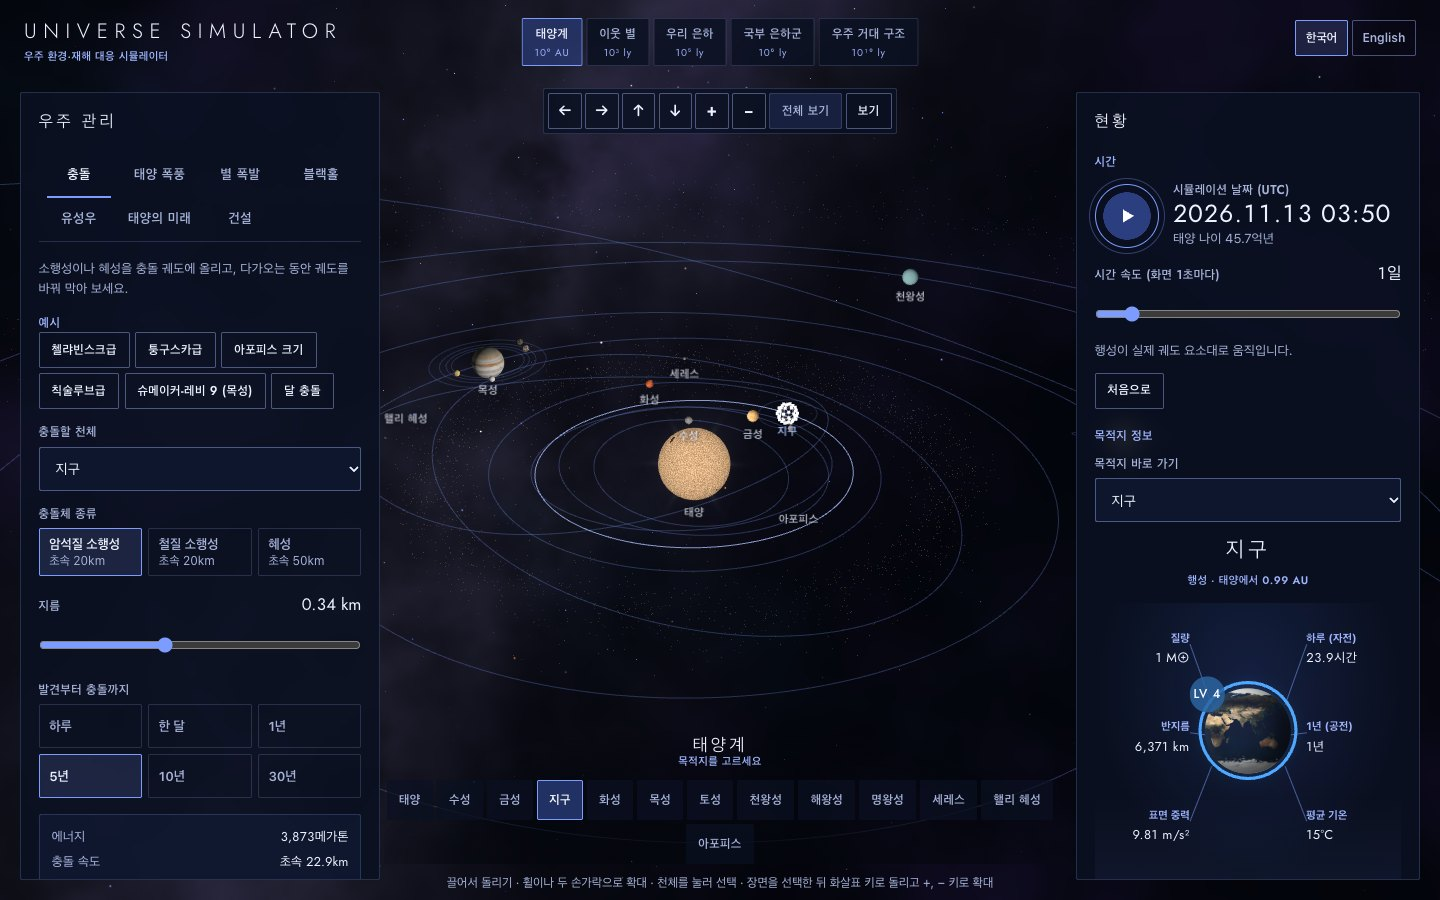
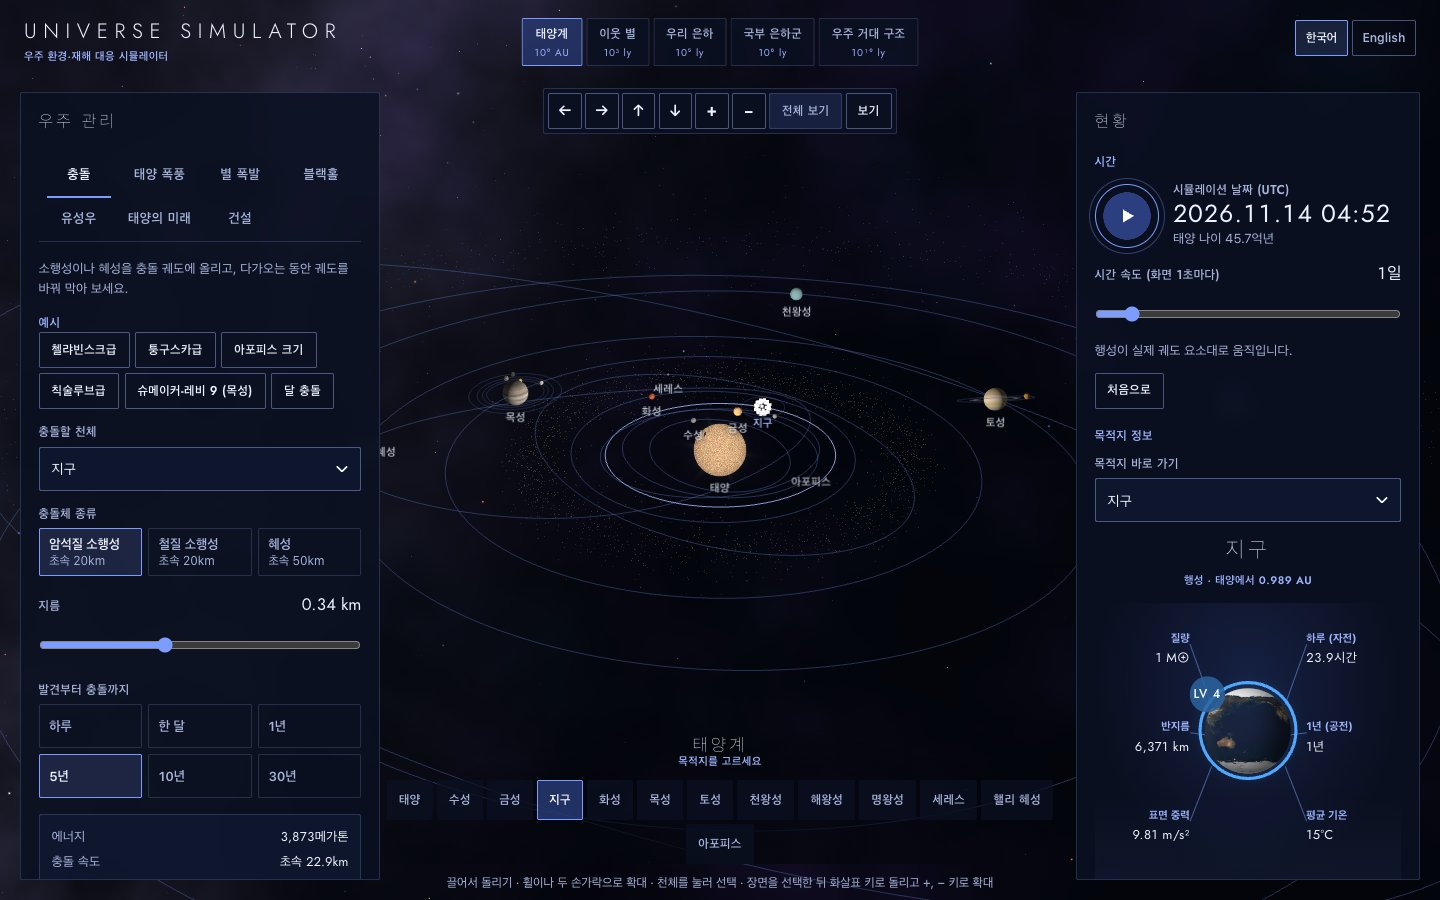
fix: 셀렉트 화살표를 직접 그려 오른쪽 간격을 글자 왼쪽 간격과 맞춤 (0.2.1)
- 기본 화살표를 숨기고(appearance: none) 화살표를 테두리 1px + 안쪽 여백 0.75rem만큼 오른쪽 끝에서 띄움, 오른쪽 안쪽 여백은 화살표 자리만큼
- README 태양계 사진 다시 찍음

diff --git a/src/shared/ui/select-field/SelectField.tsx b/src/shared/ui/select-field/SelectField.tsx
@@ -27,48 +27,67 @@ export function SelectField(props: SelectFieldProps) {
       <label for={id} class="label-caps">
         {props.label}
       </label>
-      <select
-        id={id}
-        value={props.value}
-        onChange={(event) => props.onChange(event.currentTarget.value)}
-        aria-describedby={props.description ? `${id}-desc` : undefined}
-        class={styles.select}
-      >
-        <For each={groups()}>
-          {(group) => (
-            <Show
-              when={group}
-              fallback={
-                <For each={optionsOf('')}>
-                  {(o) => (
-                    <option
-                      value={o.value}
-                      disabled={o.disabled}
-                      selected={o.value === props.value}
-                    >
-                      {o.label}
-                    </option>
-                  )}
-                </For>
-              }
-            >
-              <optgroup label={group}>
-                <For each={optionsOf(group)}>
-                  {(o) => (
-                    <option
-                      value={o.value}
-                      disabled={o.disabled}
-                      selected={o.value === props.value}
-                    >
-                      {o.label}
-                    </option>
-                  )}
-                </For>
-              </optgroup>
-            </Show>
-          )}
-        </For>
-      </select>
+      <div class={styles.control}>
+        <select
+          id={id}
+          value={props.value}
+          onChange={(event) => props.onChange(event.currentTarget.value)}
+          aria-describedby={props.description ? `${id}-desc` : undefined}
+          class={styles.select}
+        >
+          <For each={groups()}>
+            {(group) => (
+              <Show
+                when={group}
+                fallback={
+                  <For each={optionsOf('')}>
+                    {(o) => (
+                      <option
+                        value={o.value}
+                        disabled={o.disabled}
+                        selected={o.value === props.value}
+                      >
+                        {o.label}
+                      </option>
+                    )}
+                  </For>
+                }
+              >
+                <optgroup label={group}>
+                  <For each={optionsOf(group)}>
+                    {(o) => (
+                      <option
+                        value={o.value}
+                        disabled={o.disabled}
+                        selected={o.value === props.value}
+                      >
+                        {o.label}
+                      </option>
+                    )}
+                  </For>
+                </optgroup>
+              </Show>
+            )}
+          </For>
+        </select>
+        {/* 브라우저 기본 화살표는 위치를 맞출 수 없어 숨기고, 글자 왼쪽 간격(테두리 + 안쪽 여백)만큼 오른쪽 끝에서 띄운 화살표를 둡니다. */}
+        <svg
+          class={styles.chevron}
+          viewBox="0 0 12 8"
+          width="12"
+          height="8"
+          aria-hidden="true"
+        >
+          <path
+            d="M1 1.5 6 6.5 11 1.5"
+            fill="none"
+            stroke="currentColor"
+            stroke-width="1.5"
+            stroke-linecap="round"
+            stroke-linejoin="round"
+          />
+        </svg>
+      </div>
       <Show when={props.description}>
         <p id={`${id}-desc`} class={styles.description}>
           {props.description}

diff --git a/src/shared/ui/select-field/SelectField.module.css b/src/shared/ui/select-field/SelectField.module.css
@@ -3,10 +3,16 @@
   gap: 0.4rem;
 }
 
+/* 화살표(.chevron)는 글자 왼쪽 간격(테두리 1px + 안쪽 여백 0.75rem)만큼 오른쪽 끝에서 띄우고, 오른쪽 안쪽 여백은 화살표 자리만큼 넓힙니다. */
+.control {
+  position: relative;
+}
+
 .select {
   width: 100%;
   min-height: 2.75rem;
-  padding: 0 0.75rem;
+  padding: 0 calc(0.75rem + 12px + 0.5rem) 0 0.75rem;
+  appearance: none;
   border: 1px solid var(--line-strong);
   border-radius: var(--radius);
   background-color: var(--panel-solid);
@@ -16,6 +22,17 @@
   &:hover {
     border-color: var(--accent-strong);
   }
+}
+
+.chevron {
+  position: absolute;
+  top: 50%;
+  right: calc(1px + 0.75rem);
+  width: 12px;
+  height: 8px;
+  color: var(--ice);
+  transform: translateY(-50%);
+  pointer-events: none;
 }
 
 .description {

diff --git a/README.md b/README.md
@@ -1,13 +1,13 @@
 # UNIVERSE SIMULATOR - 우주 환경·재해 대응 시뮬레이터
 
 [![CI](https://github.com/ryushin01/Universe_Simulator/actions/workflows/ci.yml/badge.svg)](https://github.com/ryushin01/Universe_Simulator/actions/workflows/ci.yml)
-![version](https://img.shields.io/badge/version-0.2.0-7c9cff)
+![version](https://img.shields.io/badge/version-0.2.1-7c9cff)
 
 태양계에서 우주 거대 구조까지 오가며 소행성 충돌, 태양 폭풍, 초신성·감마선 폭발, 블랙홀 근접 통과, 유성우, 태양의 노화를 일으키고 다이슨 스웜·링월드·궤도 이동 같은 우주 구조물로 대응해 보는 3D 우주 시뮬레이터입니다. [EARTH_PLAN](https://github.com/ryushin01/EARTH_PLAN)의 우주판입니다.
 
 **[데모 바로 보기](https://ryushin01.github.io/Universe_Simulator/)** · [Storybook](https://ryushin01.github.io/Universe_Simulator/storybook/)
 
-> **프로젝트 상태:** 0.2.0까지 만든 **개인 프로젝트**입니다. 행성 위치는 NASA JPL 궤도 요소로 계산하지만, 태양 진화·기후·피해 규모·우주 구조물은 단순화한 모델이라 교육·탐색용으로만 쓰세요. 디자인은 [Space Advisor](https://www.cssdesignawards.com/sites/space-advisor/28977/)(Akufen)를 참고했습니다.
+> **프로젝트 상태:** 0.2.1까지 만든 **개인 프로젝트**입니다. 행성 위치는 NASA JPL 궤도 요소로 계산하지만, 태양 진화·기후·피해 규모·우주 구조물은 단순화한 모델이라 교육·탐색용으로만 쓰세요. 디자인은 [Space Advisor](https://www.cssdesignawards.com/sites/space-advisor/28977/)(Akufen)를 참고했습니다.
 
 ## 화면
 

diff --git a/CHANGELOG.md b/CHANGELOG.md
@@ -1,5 +1,10 @@
 # 변경 기록
 
+## 0.2.1 - 2026-11-14
+
+- 셀렉트: 브라우저 기본 화살표는 위치를 맞출 수 없어 숨기고(`appearance: none`), 직접 그린 화살표를 글자 왼쪽 간격(테두리 1px + 안쪽 여백 0.75rem)만큼 오른쪽 끝에서 띄움. 오른쪽 안쪽 여백은 화살표 자리만큼 넓힘(충돌할 천체, 목적지 바로 가기 등 모든 셀렉트)
+- README의 태양계 화면 사진을 새 셀렉트로 다시 찍음
+
 ## 0.2.0 - 2026-11-13
 
 - 3D 렌더링을 Web Worker(OffscreenCanvas)로 옮김: 장면 생성·셰이더 컴파일·그리기가 메인 스레드를 막지 않음 (Lighthouse 모바일 성능 67 → 96, TBT 2.9초 → 0.04초). OffscreenCanvas를 쓸 수 없는 브라우저는 메인 스레드에서 그림
